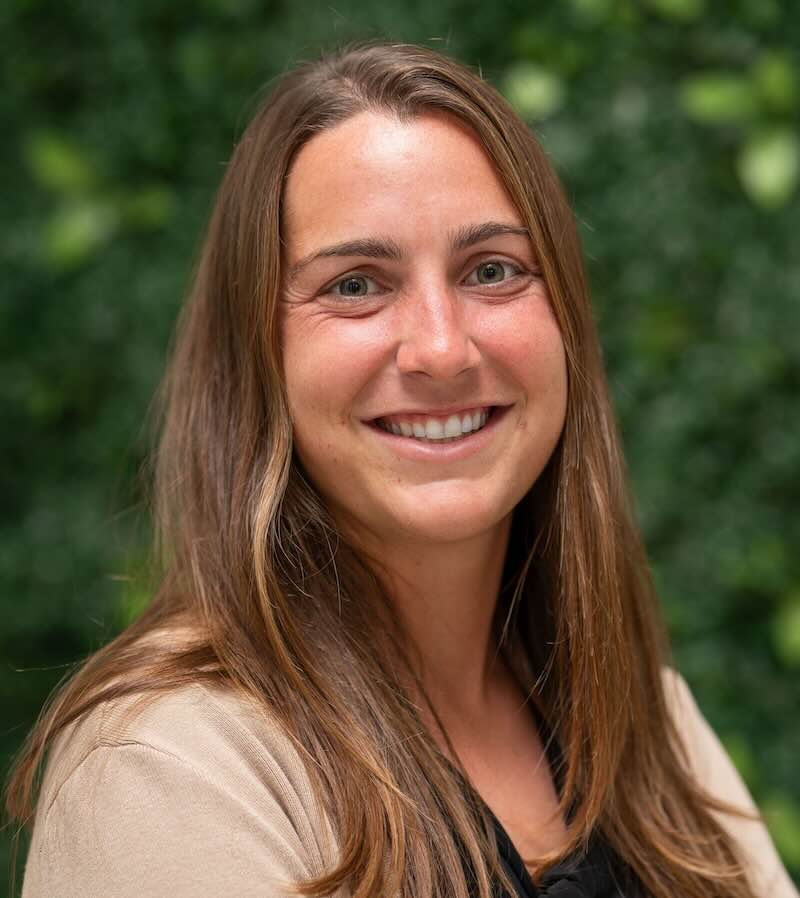
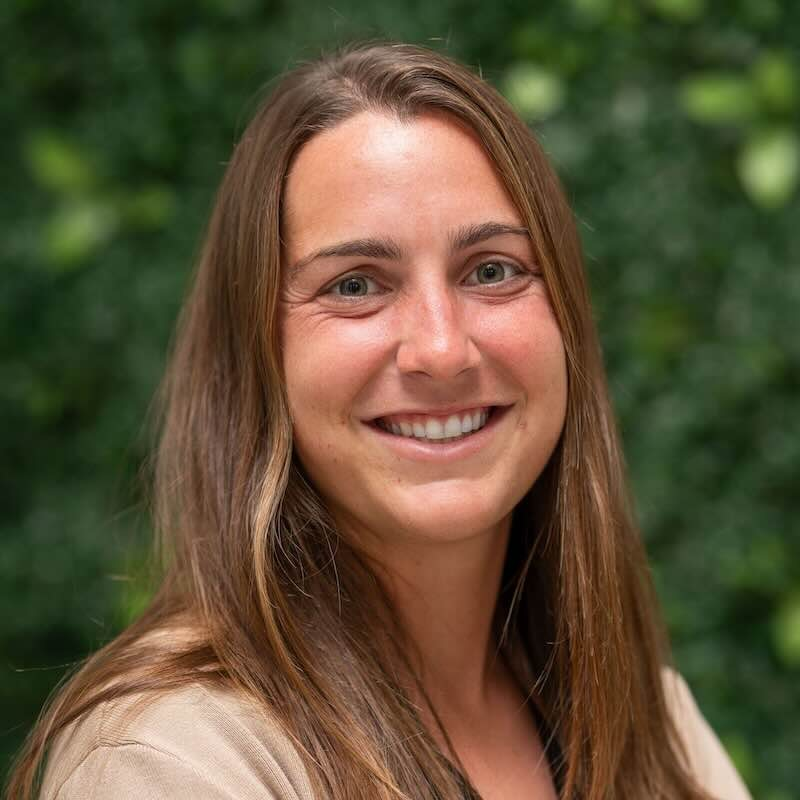
Adjustments to image display

diff --git a/content/cape_town_event/index.md b/content/cape_town_event/index.md
@@ -29,11 +29,8 @@ If you would you like to attend the Cape Town local event, please complete [this
 
 ## Invited keynote speakers
 
-### [Emily Aiken](https://emilylaiken.github.io/)
-
-
-<p align="center">
-  <img src="emily_aiken.jpg" alt="Emily Aiken" style="width:100%;max-width:280px;border-radius:12px;">
+<p align="left">
+  <img src="emily_aiken.jpg" alt="Emily Aiken" style="width:100%;max-width:240px;border-radius:12px;">
 </p>
 
 Emily is a postdoctoral scholar at Carnegie Mellon University Africa and an incoming assistant professor of data science and public policy at the University of California, San Diego (starting in 2026). Emily's research lies at the intersection of data science and development economics, primarily studying the application of novel algorithms and digital data sources for social protection and humanitarian aid programs. Emily holds a PhD in information science and an MS in computer science from UC Berkeley, and a BA in computer science from Harvard University.
@@ -41,8 +38,8 @@ Emily is a postdoctoral scholar at Carnegie Mellon University Africa and an inco
 
 ### [Fazlyn Petersen](https://sites.google.com/uwc.ac.za/fazlyn-portfolio/home?authuser=0)
 
-<p align="center">
-  <img src="fazlyn_petersen.jpeg" alt="Fazlyn Petersen" style="width:100%;max-width:280px;border-radius:12px;">
+<p align="left">
+  <img src="fazlyn_petersen.jpeg" alt="Fazlyn Petersen" style="width:100%;max-width:240px;border-radius:12px;">
 </p>
 
 Dr Fazlyn Petersen has worked in various industries and professions for ten years, applying her theoretical knowledge to practical applications. Her use of human-centred design allows for collaboration with users to lead the design process for creating IT solutions. Her work focuses on ICT for Sustainable Community Development and Innovation. Her fusion of user-centric ethos and dedication to transformative change showcases a pathway where innovation intertwines with community empowerment.
